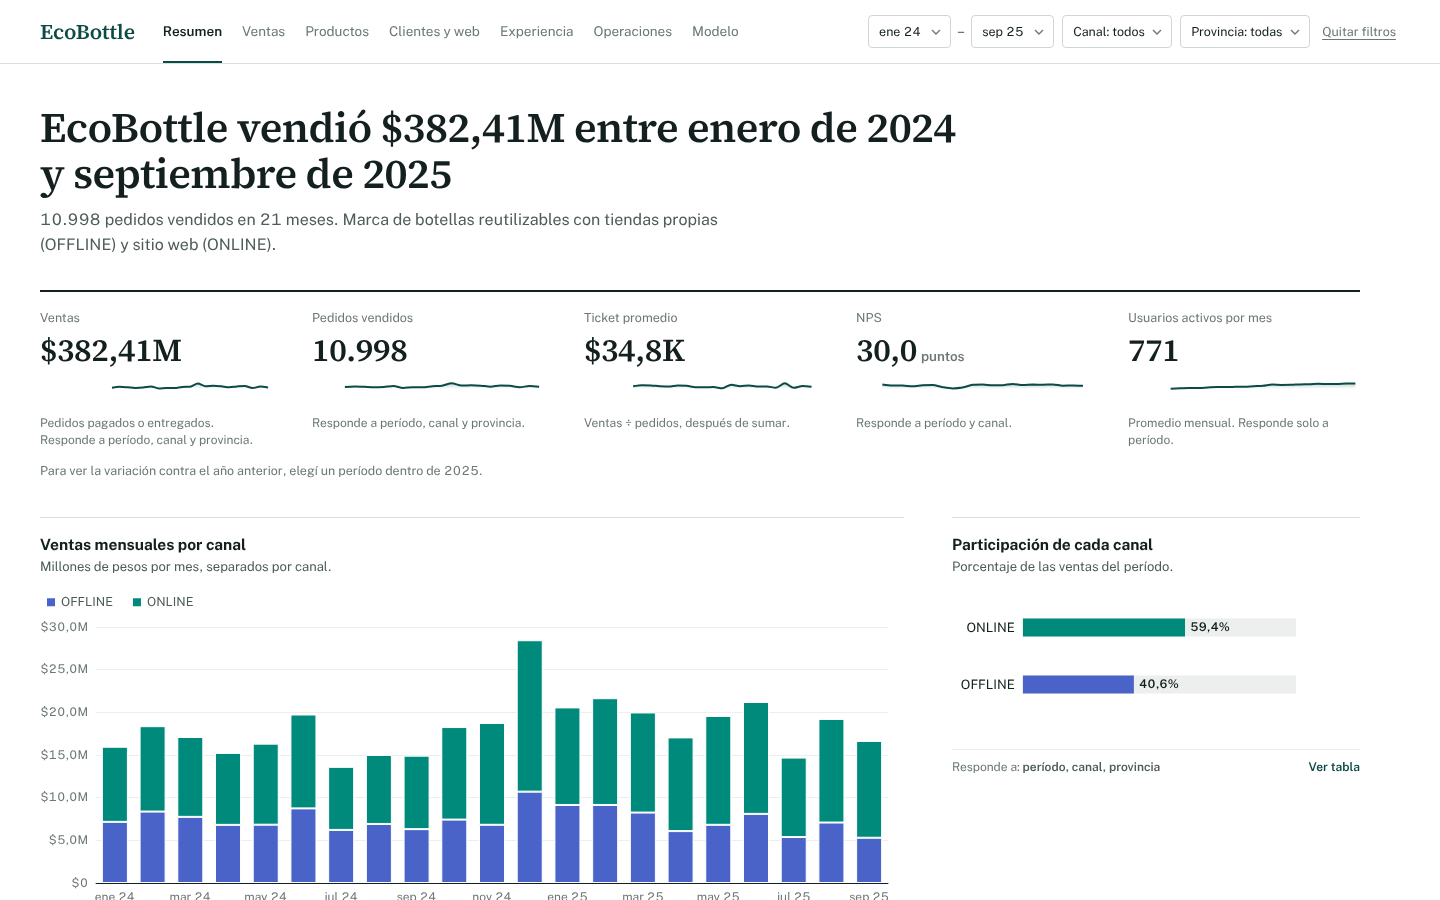
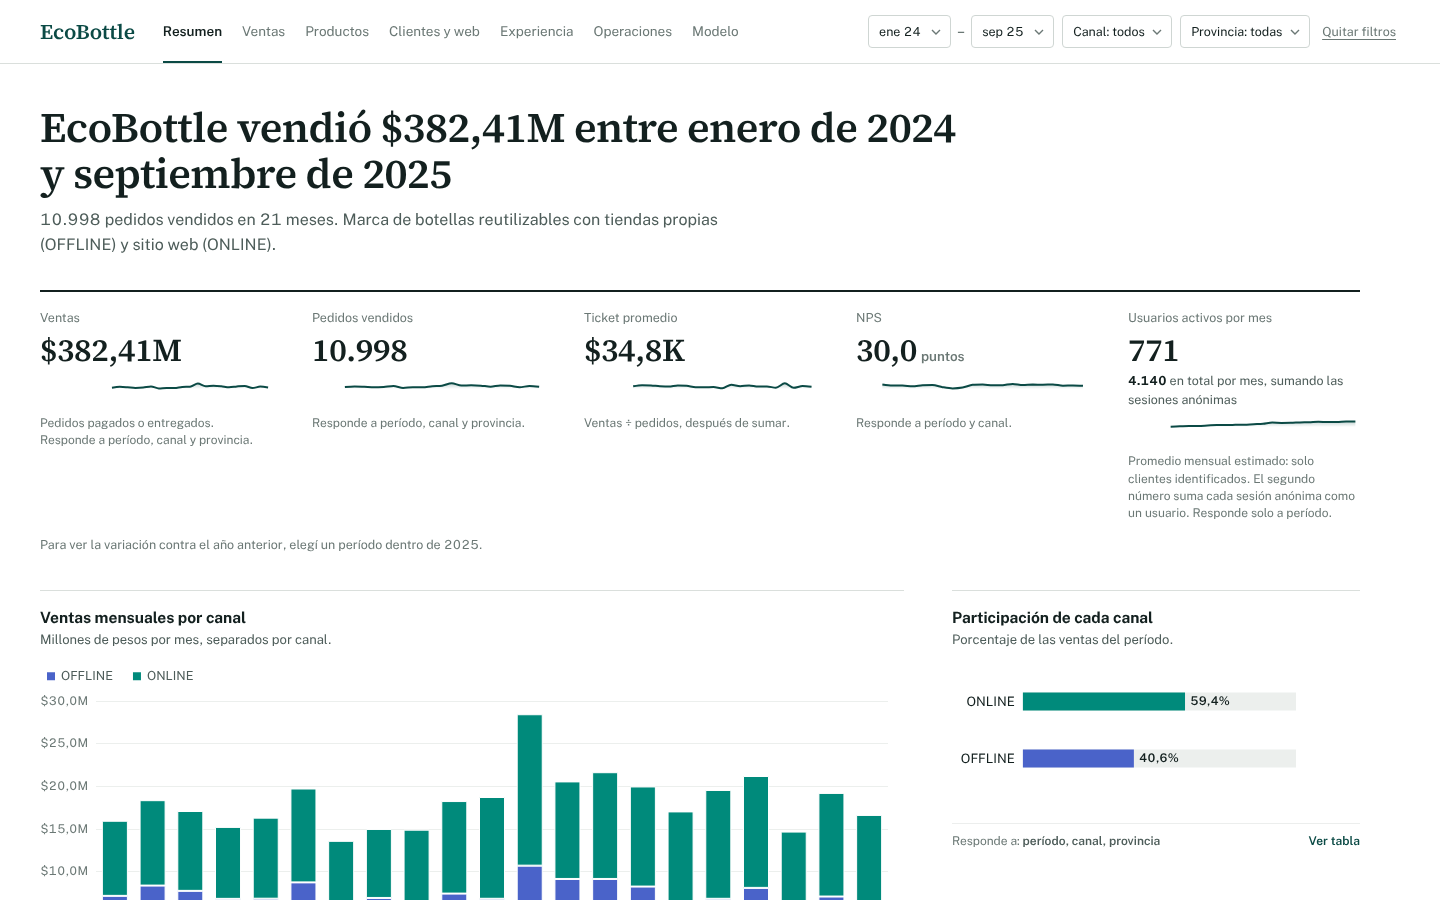
feat: mostrar usuarios activos con y sin sesiones anónimas
Claude-Session: https://claude.ai/code/session_01MMA4VUjmLQgVTJU2TzCkvy

diff --git a/web/assets/js/clientes.js b/web/assets/js/clientes.js
@@ -15,6 +15,10 @@ EB.pagina({
     const sesiones = EB.suma(traf, "sesiones");
     const ident = EB.suma(traf, "sesiones_identificadas");
     EB.kpi("k-usuarios", { valor: fmt.entero(EB.suma(usu, "usuarios_activos") / usu.length) });
+    // Total con sesiones anónimas: cada sesión anónima cuenta como un usuario (columna calculada en el ETL)
+    const altProm = EB.suma(usu, "usuarios_con_anonimos") / usu.length;
+    document.getElementById("k-usuarios-alt").innerHTML = "<strong>" + fmt.entero(altProm) + "</strong> en total por mes, sumando las sesiones anónimas";
+
     EB.kpi("k-sesiones", { valor: fmt.entero(sesiones) });
     EB.kpi("k-ident", { valor: fmt.pct(ident / sesiones) });
     EB.kpi("k-minutos", { valor: fmt.dec(EB.suma(traf, "minutos_suma") / EB.suma(traf, "sesiones_con_fin")) + "<small>min</small>" });

diff --git a/web/assets/js/resumen.js b/web/assets/js/resumen.js
@@ -58,6 +58,9 @@ EB.pagina({
     const usuProm = EB.suma(usu, "usuarios_activos") / usu.length;
     const usuPrevProm = EB.suma(usuPrev, "usuarios_activos") / usuPrev.length;
     EB.kpi("k-usuarios", { valor: fmt.entero(usuProm), anterior: anterior(usuProm, usuPrevProm) });
+    // Total con sesiones anónimas: cada sesión anónima cuenta como un usuario (columna calculada en el ETL)
+    const altProm = EB.suma(usu, "usuarios_con_anonimos") / usu.length;
+    document.getElementById("k-usuarios-alt").innerHTML = "<strong>" + fmt.entero(altProm) + "</strong> en total por mes, sumando las sesiones anónimas";
     EB.chispa("k-usuarios-chispa", EB.serieMensual(usu, (f) => EB.suma(f, "usuarios_activos")), COLOR.marca);
 
     // ---- Ventas mensuales por canal (barras apiladas) ----

diff --git a/web/clientes.html b/web/clientes.html
@@ -22,7 +22,8 @@
         <div class="tarjeta kpi" id="k-usuarios">
           <span class="kpi-nombre">Usuarios activos por mes</span>
           <span class="kpi-valor">…</span>
-          <span class="kpi-nota">Promedio de los meses elegidos. Clientes identificados con al menos una sesión.</span>
+          <span class="kpi-alt" id="k-usuarios-alt"></span>
+          <span class="kpi-nota">Promedio mensual estimado: clientes identificados con al menos una sesión. El segundo número suma cada sesión anónima como un usuario, así que cuenta varias veces a quien entra sin identificarse.</span>
         </div>
         <div class="tarjeta kpi" id="k-sesiones">
           <span class="kpi-nombre">Sesiones web</span>

diff --git a/web/index.html b/web/index.html
@@ -51,8 +51,9 @@
           <span class="kpi-nombre">Usuarios activos por mes</span>
           <span class="kpi-valor">…</span>
           <span class="kpi-delta"></span>
+          <span class="kpi-alt" id="k-usuarios-alt"></span>
           <div class="kpi-chispa" id="k-usuarios-chispa"></div>
-          <span class="kpi-nota">Promedio mensual. Responde solo a período.</span>
+          <span class="kpi-nota">Promedio mensual estimado: solo clientes identificados. El segundo número suma cada sesión anónima como un usuario. Responde solo a período.</span>
         </div>
       </section>
       <p class="kpis-nota" id="kpis-nota"></p>

diff --git a/web/assets/css/style.css b/web/assets/css/style.css
@@ -127,6 +127,9 @@ a:focus-visible, button:focus-visible, select:focus-visible {
 .kpi-delta.baja { color: var(--baja); }
 .kpi-delta.neutro { color: var(--tenue); }
 .kpi-chispa { height: 30px; margin-top: 8px; }
+.kpi-alt { font-size: 12.5px; color: var(--gris-texto); }
+.kpi-alt:empty { display: none; }
+.kpi-alt strong { color: var(--tinta); font-weight: 700; }
 .kpi-nota { font-size: 12px; color: var(--tenue); margin-top: 6px; line-height: 1.45; }
 .kpis-nota { font-size: 12.5px; color: var(--tenue); margin: 12px 0 0; }
 

diff --git a/README.md b/README.md
@@ -402,7 +402,7 @@ aunque alguno no tenga pedidos.
 |---|---|---|
 | `mart_ventas` | mes × canal × provincia | `pedidos`, `ventas` |
 | `mart_productos` | mes × canal × provincia × producto | `unidades`, `ventas_productos` |
-| `mart_usuarios` | mes | `usuarios_activos`, `sesiones`, `sesiones_anonimas` |
+| `mart_usuarios` | mes | `usuarios_activos`, `sesiones`, `sesiones_anonimas`, `usuarios_con_anonimos` |
 | `mart_nps` | mes × canal | `respuestas`, `promotores`, `detractores` |
 | `mart_dia_semana` | mes × canal × provincia × día de la semana (solo ventas) | `pedidos`, `ventas` |
 | `mart_estados` | mes × canal × provincia × estado del pedido | `pedidos`, `monto` |
@@ -437,9 +437,15 @@ exactamente los mismos CSV y el `git diff` muestra solo cambios reales.
 2. **Provincia de una venta:** se toma la de la **dirección de envío**. En compras en
    tienda, la dirección de envío es la de la tienda, así que la provincia es la de la
    tienda.
-3. **Usuarios activos:** `COUNT(DISTINCT customer_key)` de sesiones web por mes,
-   **excluyendo el miembro `-1`** (anónimos). Si no se excluyera, todas las sesiones
-   anónimas contarían como un único "usuario".
+3. **Usuarios activos:** el KPI principal es `COUNT(DISTINCT customer_key)` de
+   sesiones web por mes, **excluyendo el miembro `-1`** (anónimos), y la tarjeta muestra
+   el promedio mensual. Es una **estimación**: no incluye a los visitantes que navegan
+   sin identificarse. La consigna admite contar `session_id` para los anónimos, así que
+   el tablero muestra también ese total (`usuarios_con_anonimos` = identificados +
+   sesiones anónimas del mes). Ese número es una **cota superior**: una sesión no es una
+   persona, y quien entra varias veces sin identificarse cuenta una vez por sesión.
+   Por eso no es el KPI principal: con 3.369 sesiones anónimas por mes contra 771
+   clientes identificados, el total quedaría dominado por sesiones.
 4. **Ranking por producto:** por facturación de productos (`line_total`, sin IVA ni
    envío), filtrando `is_sale` para ser consistente con Ventas. Por eso la suma del
    ranking **no coincide** con Total Ventas (que incluye IVA y envío): es esperado.
@@ -491,7 +497,7 @@ Todas leen **solo del data warehouse**. Versión completa en `sql/03_consultas.s
 |---|---|---|
 | Total Ventas | `SUM(total_amount)` de pedidos `is_sale` | **$382,41M** |
 | Ticket Promedio | `SUM(total_amount) / COUNT(*)` de pedidos `is_sale` | **$34,8K** |
-| Usuarios Activos | `COUNT(DISTINCT customer_key)` por mes, sin `-1` | **771** (promedio mensual) |
+| Usuarios Activos | `COUNT(DISTINCT customer_key)` por mes, sin `-1` | **771** (promedio mensual estimado); **4.140** por mes contando las sesiones anónimas |
 | NPS | `(%9–10 − %0–6) × 100` | **30,0** (ONLINE 24,0 · OFFLINE 40,9) |
 | Ventas por Provincia | `total_amount` por provincia de envío | Ver hallazgos |
 | Ranking por Producto | `line_total` por producto y mes, `RANK()` | Ver hallazgos |
@@ -598,6 +604,7 @@ responde (reemplaza al botón ⓘ de Power BI) y tiene **Ver tabla** con los nú
 Ticket promedio  = suma(ventas) / suma(pedidos)
 NPS              = (suma(promotores) - suma(detractores)) / suma(respuestas) * 100
 Usuarios activos = promedio de mart_usuarios.usuarios_activos en los meses elegidos
+                   (y de usuarios_con_anonimos para el total con sesiones anónimas)
 Días de entrega  = suma(dias_entrega_suma) / suma(entregados)
 Ranking producto = ordenar la facturación de cada mes (como RANKX)
 Variación anual  = período elegido contra los mismos meses del año anterior
@@ -640,7 +647,8 @@ depende de servicios externos y siempre usa la misma versión.
    2024: Classic 570 u. contra Sport 472 u., y Sport es #1). El ranking del tablero es
    por facturación.
 8. **El 70% del tráfico web es anónimo** (70.751 de 100.363 sesiones). Usuarios
-   Activos mide solo al ~30% identificado.
+   Activos mide solo al ~30% identificado (771 por mes); contando cada sesión anónima
+   como un usuario serían 4.140 por mes, una cota superior.
 9. **91,9% de los pedidos termina en venta.** De 11.969 pedidos: 10.938 entregados
    y 60 pagados en curso (ventas), 658 cancelados (5,5%), 312 reembolsados (2,6%) y
    1 creado sin pagar. Los 312 reembolsados son devoluciones de compras ya entregadas
@@ -694,7 +702,8 @@ depende de servicios externos y siempre usa la misma versión.
   pedido puede tener varios productos. El filtro de producto aplica solo a la página
   Productos; el ranking mensual siempre compara los dos productos.
 - **Usuarios Activos** solo se filtra por fecha (las sesiones no tienen provincia ni
-  producto y siempre son del canal online) y cuenta solo clientes identificados.
+  producto y siempre son del canal online). El KPI principal cuenta solo clientes
+  identificados; el total con sesiones anónimas sobreestima porque cuenta sesiones.
 - **NPS con pocas respuestas:** algunos meses tienen menos de 30 respuestas por canal
   (ej. sep-25 OFFLINE: 29); en esos meses el NPS es poco estable.
 

diff --git a/dw/modelo_estrella.md b/dw/modelo_estrella.md
@@ -255,6 +255,7 @@ erDiagram
         BIGINT usuarios_activos
         BIGINT sesiones
         BIGINT sesiones_anonimas
+        BIGINT usuarios_con_anonimos
     }
     mart_ventas {
         DATE mes
